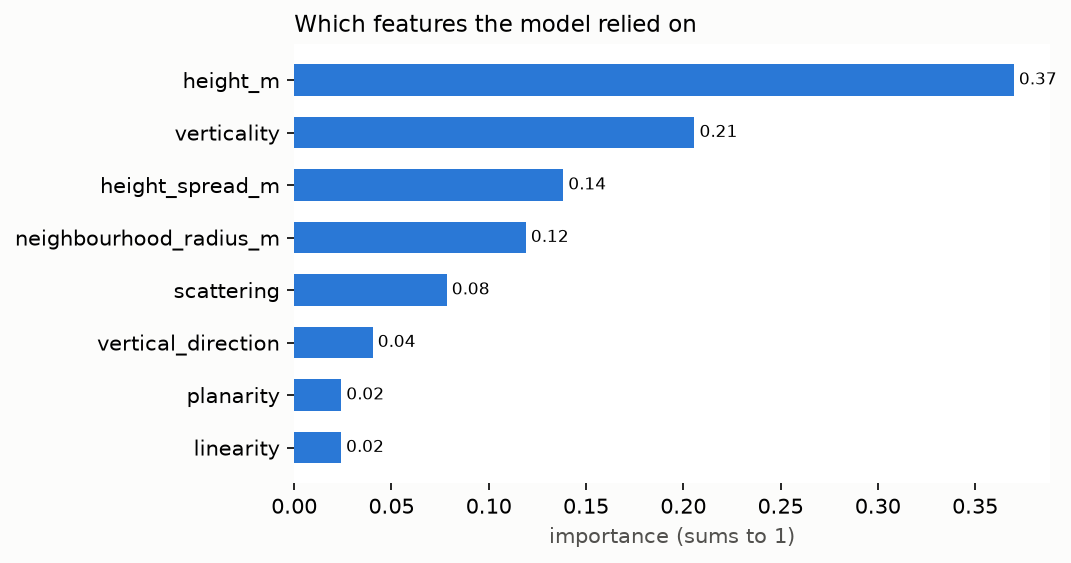
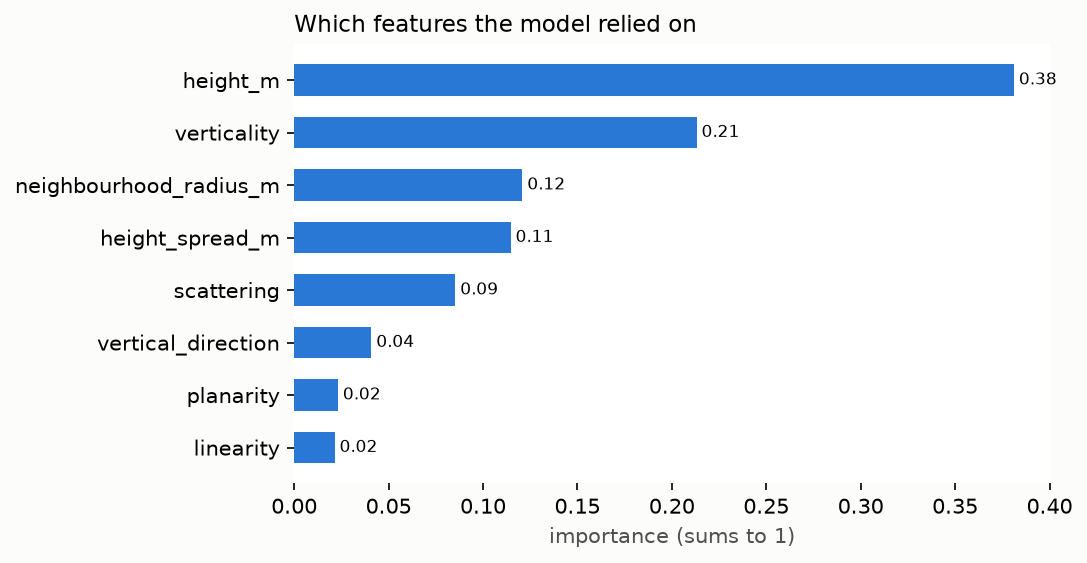
`Address PR review with fresh navigation tests and restored ML results`
Address PR review with fresh navigation tests and restored ML results`

diff --git a/scripts/run_all.py b/scripts/run_all.py
@@ -63,6 +63,7 @@ def run_demo(
     forest = make_demo_forest(seed)
     mapping = map_with_odometry(forest, odometry_mode)
     summary = dict(mapping.metrics)
+    summary["ground_method"] = resolve_method()
     map_metrics, map_trees, ladder = analyse(mapping.cloud, forest)
     exact_metrics, _, _ = analyse(mapping.exact_cloud, forest)
     cloud_metrics, _, _ = analyse(forest.points, forest)
@@ -81,6 +82,8 @@ def run_demo(
     overall = summarise(
         evaluate_navigation(seeds, tree_counts=tree_counts, out_dir=out_dir / "navigation")
     )[-1]
+    summary["navigation_seed_start"] = seeds.start
+    summary["navigation_seed_end"] = seeds.stop - 1
     summary["navigation_runs"] = overall["runs"]
     summary["navigation_success"] = overall["success_rate"]
     summary["navigation_collisions"] = overall["collisions"]
@@ -271,7 +274,7 @@ def _write_report(summary: Summary, seed: int, path: Path) -> None:
     ]
     lines += [
         "",
-        f"Ground classification ({resolve_method()}) on the labelled demo scans: "
+        f"Ground classification ({summary['ground_method']}) on the labelled demo scans: "
         f"precision {summary['ground_precision']:.3f} (rocks excluded), "
         f"recall {summary['ground_recall']:.3f}.",
         "",
@@ -281,6 +284,7 @@ def _write_report(summary: Summary, seed: int, path: Path) -> None:
         "",
         "| Metric | Value |",
         "|---|---:|",
+        f"| Seed range | {summary['navigation_seed_start']}-{summary['navigation_seed_end']} |",
         f"| Runs (seeds x forest densities) | {summary['navigation_runs']} |",
         f"| Success rate | {summary['navigation_success']:.3f} |",
         f"| Collisions | {summary['navigation_collisions']} |",
@@ -310,8 +314,15 @@ def update_outcomes(summary: Summary, seed: int, path: Path = OUTCOMES) -> None:
         ("Navigation runs", summary["navigation_runs"], ">= 50"),
         ("Navigation success rate", summary["navigation_success"], ">= 0.90"),
         ("Navigation collisions", summary["navigation_collisions"], "0"),
+        ("Navigation timeouts", summary["navigation_timeouts"], "-"),
     ]
-    table = [f"Seed {seed}.", "", "| Metric | Value | Target |", "|---|---:|---:|"]
+    table = [
+        f"Seed {seed}. Ground classification used {str(summary['ground_method']).upper()}.",
+        f"Navigation seeds {summary['navigation_seed_start']}-{summary['navigation_seed_end']}.",
+        "",
+        "| Metric | Value | Target |",
+        "|---|---:|---:|",
+    ]
     table += [f"| {label} | {_fmt(value)} | {target} |" for label, value, target in rows]
     block = MARKERS[0] + "\n" + "\n".join(table) + "\n"
     path.write_text(text[:start] + block + text[end:], encoding="utf-8")

diff --git a/tests/evaluation/test_run_all.py b/tests/evaluation/test_run_all.py
@@ -73,10 +73,19 @@ def test_update_outcomes_replaces_only_the_marked_block(tmp_path) -> None:
         "map_dbh_rmse_m", "map_ladder_auc", "navigation_success", "exact_tree_recall",
         "exact_dbh_rmse_m", "ground_precision", "ground_recall",
     )
-    summary = {key: 0.5 for key in keys} | {"navigation_collisions": 0, "navigation_runs": 80}
+    summary = {key: 0.5 for key in keys} | {
+        "ground_method": "ransac",
+        "navigation_seed_start": 3003,
+        "navigation_seed_end": 3022,
+        "navigation_collisions": 0,
+        "navigation_runs": 80,
+        "navigation_timeouts": 1,
+    }
 
     update_outcomes(summary, 3, doc)
     text = doc.read_text()
 
     assert text.startswith("before\n") and text.endswith(f"{MARKERS[1]}\nafter\n")
     assert "old table" not in text and "Seed 3." in text and "| 0.5000 |" in text
+    assert "Ground classification used RANSAC." in text
+    assert "Navigation seeds 3003-3022." in text

diff --git a/docs/decisions.md b/docs/decisions.md
@@ -46,3 +46,6 @@
 | 2026-11-07 | `cloth-simulation-filter` is an optional `csf` extra; without it ground classification uses the RANSAC fallback, and reports state the method actually used (`resolve_method`). CI installs `.[core,csf,dev]`. | CSF needs C++ build tools on Windows (install crash found by Prajjwal, PR #34); CI keeps testing CSF, and results no longer claim "csf" when RANSAC ran. |
 | 2026-11-07 | Keep `tree_match_gate_m` at 0.5 m and the stem thresholds unchanged (PR #34 review). | Loosening them was tuned on the demo scene and the 1.0 m gate made matching easier rather than detection better (KISS-ICP map: 4 of 6 detections false). Drift is addressed in #19. |
 | 2026-11-15 | Add a supervised ML component: a Random Forest (scikit-learn, optional `ml` extra) that classifies each LiDAR point as ground / stem / shrub / crown / rock from 8 local-shape features; trained on 8 simulated forests, tested on 4 unseen ones and on real TreeScope VAT-0723 ground/trunk labels. | The guide asked for machine learning. The simulator gives labelled points for free; a Random Forest on hand-made features trains in seconds without a GPU and is explainable (feature importance). Deep learning was not chosen: it needs far more labelled real data and a GPU. Torch/OpenCV stay out. |
+| 2026-11-25 | Ground-filter synthetic scans before KISS-ICP alignment. This supersedes the earlier all-returns choice for simulated alignment. | Similar ground returns can obscure movement. Keep points more than 0.10 m above the local ground estimate for alignment, with an all-returns fallback if any scan retains fewer than 100 points. KISS-ICP itself is unchanged. Map registration and recorded-data alignment use all valid returns, including near-ground features. |
+| 2026-11-25 | Model separate simulated LiDAR profiles for navigation (26 beams over 50°) and mapping (16 beams over 30°). | Both profiles have about 2° vertical spacing. The wider navigation profile extends downward to 25° and detected a low boulder on a slope that the 15° downward mapping limit missed. Keeping the mapping profile preserves the original scan geometry for comparison. Navigation results apply to the wider simulated profile. |
+| 2026-11-25 | Report navigation on held-out seeds 3000–3019 across four forest densities. | Seeds 2000–2019 were used to diagnose failures and verify fixes. Their replay is a regression check. The held-out run evaluates the fixed configuration on new forests. |

diff --git a/docs/OUTCOMES.md b/docs/OUTCOMES.md
@@ -45,10 +45,20 @@ to 83%. Four of the five met the drift target and three met the recall target.
 These runs used the RANSAC ground classifier. The original all-returns run
 is available in [the original demo results](../results/demo/report.md).
 
-### Seed 0 and navigation regression benchmark
+### Seed 0 mapping and held-out navigation benchmark
+
+The updated navigation configuration reached the goal in 80 of 80 runs when
+we replayed seeds 2000–2019 across four densities. Those scenarios helped
+diagnose failures. The table below reports the independent run on seeds
+3000–3019 with the configuration fixed before testing.
+
+The held-out run reached 79 of 80 goals (98.75%). The collision occurred on
+seed 3014 with 40 trees, so the zero-collision target is still open. All
+other runs reached the goal and there were no timeouts.
 
 <!-- demo-results:start -->
-Seed 0.
+Seed 0. Ground classification used RANSAC.
+Navigation seeds 3000-3019.
 
 | Metric | Value | Target |
 |---|---:|---:|
@@ -60,10 +70,11 @@ Seed 0.
 | DBH RMSE (m), scanned map | 0.0181 | <= 0.03 |
 | DBH RMSE (m), exact-pose map | 0.0047 | <= 0.03 |
 | Ground precision (rocks excluded) / recall | 0.994 / 0.995 | - |
-| Ladder AUC vs shrub cells, scanned map | 0.9656 | >= 0.75 |
+| Ladder AUC vs shrub cells, scanned map | 0.9658 | >= 0.75 |
 | Navigation runs | 80 | >= 50 |
-| Navigation success rate | 1.0000 | >= 0.90 |
-| Navigation collisions | 0 | 0 |
+| Navigation success rate | 0.9875 | >= 0.90 |
+| Navigation collisions | 1 | 0 |
+| Navigation timeouts | 0 | - |
 <!-- demo-results:end -->
 
 ## Honest limits
@@ -79,8 +90,8 @@ Seed 0.
   sparse or weakly structured scans can still yield unreliable alignment.
   The ground-filtered method needs separate testing on recorded data.
 - Small boulders may be hidden by terrain or fall below useful LiDAR
-  coverage in some poses. The navigation benchmark reuses the 80 scenarios
-  from the original run to measure changes against that baseline.
+  coverage in some poses. The navigation results apply to the
+  [wider simulated navigation sensor](decisions.md) and the sampled forests.
 - CSF's cloth drapes over low boulders, so rock points are often classed as
   ground (ground precision is reported with rocks excluded).
 - Simulated foliage is flat triangles and trunks are perfect cylinders; real

diff --git a/presentation/02-slides-and-script.md b/presentation/02-slides-and-script.md
@@ -144,7 +144,7 @@ LiDAR point as ground, trunk, shrub, crown or rock. For each point we describe t
 shape of its 20 nearest neighbours: points on a line are probably a trunk, a flat
 sheet is ground, scattered points are leaves. Because we generate the forests, we
 get the correct label of every point for free, so we trained on 8 forests and
-tested on 4 forests the model had never seen: 89 % of points were classified
+tested on 4 forests the model had never seen: 89.2% of points were classified
 correctly. Ground and rocks are almost perfect; the main confusion is shrub versus
 trunk, because both stand between 1 and 4 m."
 
@@ -171,14 +171,15 @@ the same pipeline on a real public forest recording from the TreeScope project."
 | Final odometry drift | 0.85% over a 10.67 m route |
 | Trees matched on the LiDAR-estimated map | 6 of 6, DBH RMSE 1.81 cm |
 | Ladder-fuel score vs simulated shrub locations | AUC about 0.97 |
-| Navigation regression benchmark | 80 of 80 reached the goal, zero collisions and timeouts |
+| Navigation on held-out seeds 3000–3019 | 79 of 80 reached the goal (98.75%), one collision, zero timeouts |
 
 Use `results/semester-demo/survey_map.png` alongside the table.
 
 **Say** "On the demo forest, the LiDAR-estimated route ended about nine
 centimetres from the simulator's endpoint. The map matched all six trees,
-with a trunk-diameter error of about 1.8 centimetres. The rover reached its
-goal in all 80 scenarios we reran for the navigation benchmark."
+with a trunk-diameter error of about 1.8 centimetres. In 80 new navigation
+scenarios, the rover reached its goal 79 times, with one collision and
+zero timeouts."
 
 ---
 
@@ -220,7 +221,7 @@ detected trees. The heatmap shows the ladder-fuel score."
   83% across five additional simulated forests
 - The earlier TreeScope run detected five stems; the dataset lists 63
   labelled trees and tree-by-tree matching is pending
-- ML model trained on simulated forests: 89.5% accurate on unseen synthetic
+- ML model trained on simulated forests: 89.2% accurate on unseen synthetic
   forests, but lower on real labels (sim-to-real gap)
 - Simulated rover only; no physical hardware
 - Ladder fuel is a proxy, validated against shrub positions

diff --git a/presentation/04-questions-and-answers.md b/presentation/04-questions-and-answers.md
@@ -127,8 +127,8 @@ a survey. Then we checked on real data.
 On the seed 0 LiDAR-estimated map, we matched all six trees and measured
 trunk diameter with 1.81 cm RMSE. Mean tree recall was 83% over five other
 simulated forests. Ladder-fuel score versus shrub locations had an AUC of
-about 0.97 on the demo forest. The rover reached its goal in all 80 navigation
-regression scenarios, with zero collisions and timeouts.
+about 0.97 on the demo forest. On held-out navigation seeds 3000–3019, the
+rover reached 79 of 80 goals (98.75%), with one collision and zero timeouts.
 
 **Q: What do the five detected stems and 63 labels mean on real data?**
 The earlier TreeScope run detected five stems in the processed point cloud.
@@ -149,8 +149,9 @@ the shrub square higher 97 % of the time. 0.5 would be random guessing.
 The original simulator benchmark had four collisions, mostly with rocks as
 the rover approached them. We widened the simulated navigation scan, added a
 detection margin, and improved how the rover approaches a nearby goal.
-Replaying the same 80 scenarios gave zero collisions and zero timeouts.
-The replay measures regression performance on those scenarios.
+Replaying seeds 2000–2019 gave zero collisions and zero timeouts. On the
+fresh seeds 3000–3019, the rover collided once, on seed 3014 with 40 trees.
+The held-out run measures how the fixed setup performed on new forests.
 
 **Q: How long does it take to run?**
 The quick demo runs four navigation trials. The full benchmark runs 80 and

diff --git a/docs/SETUP.md b/docs/SETUP.md
@@ -124,11 +124,15 @@ cd ~/projects/canopy-mapping-rover && source .venv/bin/activate
 | D1. Automatic tests (~2 min) | `pytest -q` | Ends with `passed` (67 tests; a few "skipped" are fine) |
 | D2. Synthetic demo (~2 min) | `python scripts/run_all.py --seed 0 && cat results/demo/report.md` | Exact-pose map: Trees detected **6**, recall **1.0000** |
 | D3. Figures (~15 s) | `python scripts/show_demo.py` | `Wrote forest_map.png, lidar_scan.png, odometry.png` |
-| D4. ML model (~2 min) | `python scripts/train_point_classifier.py` | `Accuracy on unseen forests: ~89 %` |
+| D4. ML model (~2 min) | `python scripts/train_point_classifier.py --out results/ml-rehearsal` | Writes a new report and figures without replacing the saved benchmark |
 | D5. Real forest: odometry (~3 min, needs Part C) | block below | `"frames": 92`, `path_length_m` about 8.6 |
 | D6. Real forest: analytics (~1 min) | block below | `"n_stems": 5`, `"ladder_cells_above_0_5": 333` |
 | D7. All slide images (~5 min) | `bash presentation/prepare.sh` | Lists the images in `presentation/images/` |
 | D8. 3-D view | `python scripts/show_demo.py --view 3d` | A window opens; drag to rotate, `Q` closes |
+
+The [saved ML benchmark](../results/ml/report.md) reports 89.2% accuracy on
+unseen simulated forests and includes the TreeScope check. A local rerun skips
+the TreeScope check when the labelled frames are absent.
 
 **D5 and D6, real forest:**
 

diff --git a/README.md b/README.md
@@ -36,7 +36,19 @@ On Windows, run these commands from PowerShell in the project folder.
 
 ```powershell
 python -m venv .venv
+.\.venv\Scripts\python.exe -m pip install -e ".[core,csf,odometry,eval,ml,dev]"
+```
+
+If CSF fails to build on Windows, install the other extras and use the built-in
+RANSAC ground classifier.
+
+```powershell
 .\.venv\Scripts\python.exe -m pip install -e ".[core,odometry,eval,ml,dev]"
+```
+
+Once the dependencies are installed, run the demo and tests.
+
+```powershell
 .\.venv\Scripts\python.exe scripts/run_all.py --seed 0 --fast --out results/semester-demo
 .\.venv\Scripts\python.exe -m pytest -q
 ```
@@ -52,12 +64,12 @@ On macOS or Linux, use the following commands.
 
 ```bash
 python -m venv .venv && source .venv/bin/activate
-python -m pip install -e ".[core,odometry,eval,ml,dev]"
+python -m pip install -e ".[core,csf,odometry,eval,ml,dev]"
 pytest -q && ruff check .
 python scripts/run_all.py --seed 0 --fast --out results/semester-demo
 python scripts/show_demo.py                 # figures in results/demo/figures/
 python scripts/show_demo.py --view 3d       # rotate the scanned forest in a 3-D window
-python scripts/train_point_classifier.py    # train and evaluate the point classifier
+python scripts/train_point_classifier.py --out results/ml-rehearsal
 ```
 
 The demo estimates motion with ground-filtered LiDAR returns by default.

diff --git a/results/ml/report.md b/results/ml/report.md
@@ -2,19 +2,28 @@
 
 Trained on 92588 labelled points from simulated forests [0, 1, 2, 3, 4, 5, 6, 7]; tested on 41429 points from unseen forests [100, 101, 102, 103].
 
-**Accuracy on unseen forests: 89.5 %**
+**Accuracy on unseen forests: 89.2 %**
 
 | Class | Precision | Recall | F1 | Test points |
 |---|---:|---:|---:|---:|
-| ground | 1.00 | 0.99 | 1.00 | 12000 |
-| stem | 0.83 | 0.86 | 0.85 | 12000 |
-| shrub | 0.84 | 0.76 | 0.80 | 8342 |
-| crown | 0.93 | 0.93 | 0.93 | 1613 |
-| rock | 0.88 | 0.92 | 0.90 | 7474 |
+| ground | 1.00 | 0.99 | 0.99 | 12000 |
+| stem | 0.84 | 0.87 | 0.85 | 12000 |
+| shrub | 0.86 | 0.70 | 0.77 | 8342 |
+| crown | 0.96 | 0.93 | 0.95 | 1613 |
+| rock | 0.83 | 0.98 | 0.90 | 7474 |
 
 ![Confusion matrix](confusion_matrix.png)
 
 ![Feature importance](feature_importance.png)
+
+## Real data check (TreeScope VAT-0723 labelled frames)
+
+These frames contain only ground and trunk points, so only recall can be measured (precision needs the other classes).
+
+| True class | Recall | Predicted as |
+|---|---:|---|
+| ground | 0.60 | ground 5362, stem 154, shrub 427, crown 2, rock 3055 |
+| stem | 0.35 | ground 16, stem 3166, shrub 1654, crown 3923, rock 241 |
 
 Features: height_m, linearity, planarity, scattering, verticality, vertical_direction, height_spread_m, neighbourhood_radius_m.
 

diff --git a/presentation/03-demo-commands.md b/presentation/03-demo-commands.md
@@ -34,13 +34,14 @@ Rehearse on the presentation laptop. Keep these files open or ready to open:
 | `results/semester-demo/figures/forest_map.png` | Example simulated navigation run | 5, 10 |
 | `presentation/images/real_side_view.png` and `real_top_views.png` | Saved figures from the earlier TreeScope run | 1, 8, 9, 14 |
 | `presentation/images/real_ladder_fuel.png` | Saved real-data heatmap | 5, 14 |
-| `presentation/images/ml_confusion_matrix.png` | Random Forest confusion matrix (89.5% accuracy) | 11 |
+| `presentation/images/ml_confusion_matrix.png` | Random Forest confusion matrix (89.2% accuracy) | 11 |
 | `presentation/images/ml_feature_importance.png` | Feature importance ranking | 11 |
 | `presentation/images/ml_real_side_view.png` | Real forest coloured by ML predictions | 14 (optional) |
 
-The quick demo runs four navigation trials. To reproduce the 80-trial benchmark
-in [the outcomes document](../docs/OUTCOMES.md), omit `--fast` and choose a
-separate output folder, such as `results/semester-benchmark`.
+The quick demo runs four navigation trials. To reproduce the full benchmark
+on seeds 3000–3019 in [the outcomes document](../docs/OUTCOMES.md), omit
+`--fast` and choose a separate output folder, such as
+`results/semester-benchmark`.
 
 ## B. Optional real-forest rerun before the presentation
 

diff --git a/presentation/01-project-explained.md b/presentation/01-project-explained.md
@@ -82,8 +82,8 @@ Trunks are removed first, because a trunk is continuous but is not fuel.
 | Trees from the LiDAR-estimated map | 6 of 6 matched, 1.81 cm DBH RMSE | The map supports trunk locations and diameter estimates on this plot |
 | Trees on five more simulated forests | 83% mean recall | Tree detection varied between forests |
 | Ladder-fuel map vs true shrubs | AUC about 0.97 on the demo forest | Shrub cells usually ranked higher |
-| Navigation | 80 of 80 regression scenarios reached the goal, zero collisions and timeouts | A repeatable obstacle-avoidance check across four forest densities |
-| ML point classifier, unseen simulated forests | 89.5% accuracy (ground 99%, rock 90%, crown 93%, stem 85%, shrub 80%) | Learns the classes well from simulated examples |
+| Navigation on fresh seeds 3000–3019 | 79 of 80 reached the goal (98.75%), one collision, zero timeouts | A held-out check across four forest densities |
+| ML point classifier, unseen simulated forests | 89.2% accuracy | Accuracy on four forests held out from training |
 | Earlier real forest run (WSF-19) | 2.7 million-point map, 2,016 ladder-fuel cells and five detected stems | Tree-by-tree matches with the field survey are pending |
 
 See the [simulated benchmark](../docs/OUTCOMES.md) and

diff --git a/presentation/05-presentation-day.md b/presentation/05-presentation-day.md
@@ -49,7 +49,7 @@ then runs the step when you press **Enter**:
 | 1 | Simulated forest in a 3-D window (drag to rotate, scroll to zoom, `Q` to close) | ~15 s | "Each dot is one laser hit: blue trunks, orange shrubs, green rocks. The blue line is the true path, the orange line what odometry estimated." |
 | 2 | Real forest, only the 0.3-4 m layer, in 3-D | ~10 s | "This is the real forest with everything above 4 m removed: columns are trunks, clumps are shrubs. That is the ladder fuel a drone cannot see." |
 | 3 | The whole pipeline runs live (quick mode), then the results table | ~30-60 s | "Drive, odometry, map, ground, trees, ladder fuel and navigation: all from one command." |
-| 4 | ML report and the confusion matrix picture | ~5 s | "The Random Forest was trained on 8 forests and tested on 4 new ones: 89 % accuracy. The diagonal shows correct predictions." |
+| 4 | ML report and the confusion matrix picture | ~5 s | "The Random Forest was trained on 8 forests and got 89.2% accuracy on 4 unseen forests. The diagonal shows correct predictions." |
 | 5 | Green test runs on GitHub | ~3 s | "Every change runs 67 automatic tests." |
 
 During step 3 the screen stays quiet while it works, so keep talking.
